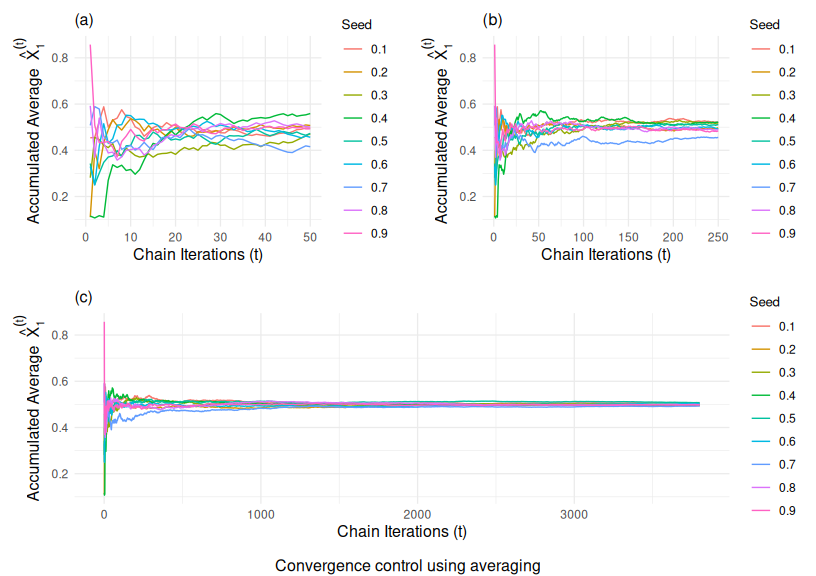
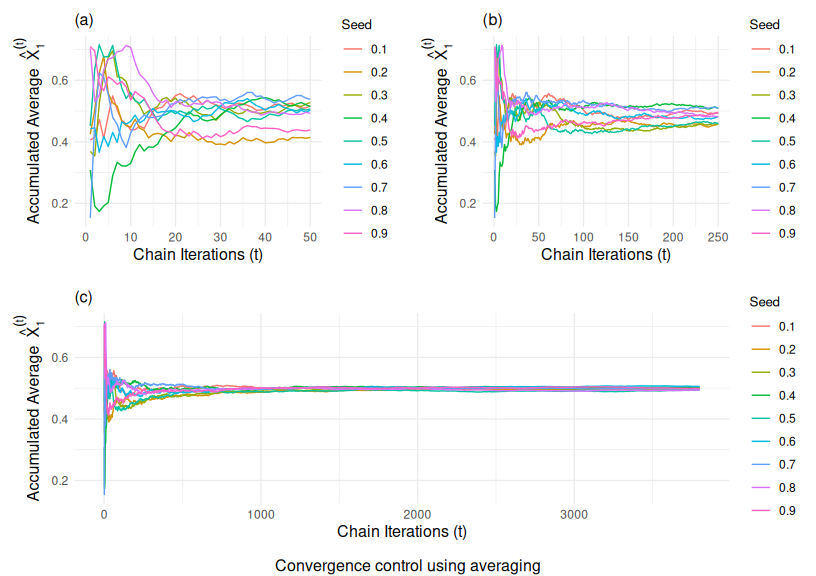
Update

diff --git a/randomsamples.md b/randomsamples.md
@@ -164,15 +164,15 @@ df <- data.frame(
   "ESS" = effectiveSize(ExampleFC_X1_X2$thinned_chain),
   "Length" = length(ExampleFC_X1_X2$thinned_chain),
   "Precision" = ExampleFC_X1_X2$precision,
-  row.names = "Chain Measurements"  # Cambia el nombre de la fila
+  row.names = "Chain Measurements"
 )
 df
 ```
 
-    ##                    Acceptance.Rate Acceptance.Rate.Post.Burn.in      ESS Length
-    ## Chain Measurements       0.5588156                     0.558048 3279.327   3800
+    ##                    Acceptance.Rate Acceptance.Rate.Post.Burn.in     ESS Length
+    ## Chain Measurements       0.5650557                    0.5643954 3433.86   3800
     ##                    Precision
-    ## Chain Measurements  2.992333
+    ## Chain Measurements  2.991663
 
 ## Convergence Monitoring with Fixed Seeds
 
@@ -228,7 +228,7 @@ round(apply(ExampleFC_X1_X2_seedgiven[1:3800,], 2, mean),3)
 ```
 
     ##   0.1   0.2   0.3   0.4   0.5   0.6   0.7   0.8   0.9 
-    ## 0.505 0.496 0.499 0.497 0.507 0.503 0.493 0.499 0.498
+    ## 0.497 0.497 0.501 0.503 0.494 0.506 0.497 0.494 0.500
 
 # Gibbs Sampling
 
@@ -353,39 +353,39 @@ numerical_df <- as.data.frame.matrix(t(results_measure_diag$Numerical))
 analytical_df <- as.data.frame.matrix(t(results_measure_diag$Analytical))
 differences_df <- as.data.frame.matrix(t(results_measure_diag$Differences)) 
 
-# Combinamos los tres data frames en uno solo
+# Combine the three data frames into one
 combined_df <- cbind(numerical_df, analytical_df[,1],differences_df[,1])
 names(combined_df)=c("Numerical Results", "Theoretical Results", "Differences")
 
-# Creamos la tabla con kable y le aplicamos estilo
+# The table is created with kable
 combined_df %>%
   kable(caption = "Summary Statistics for Different Measures", digits = 3)
 ```
 
 |                | Numerical Results | Theoretical Results | Differences |
 |:---------------|------------------:|--------------------:|------------:|
-| Mean_X1        |             0.893 |               0.917 |       0.024 |
-| Var_X1         |             2.479 |               7.851 |       5.372 |
-| ESS_X1         |          3800.000 |            3800.000 |       0.000 |
-| STDERR_Mean_X1 |             0.025 |                  NA |          NA |
-| STDERR_Var_X1  |             0.422 |                  NA |          NA |
-| CI_Mean1_Lower |             0.040 |                  NA |          NA |
-| CI_Mean1_Upper |             4.406 |                  NA |          NA |
-| CI_Var1_Lower  |             1.681 |                  NA |          NA |
-| CI_Var1_Upper  |             3.492 |                  NA |          NA |
-| Mean_X2        |             0.967 |               0.917 |      -0.050 |
-| Var_X2         |            13.128 |               7.851 |      -5.277 |
+| Mean_X1        |             0.928 |               0.917 |      -0.012 |
+| Var_X1         |             3.436 |               7.851 |       4.415 |
+| ESS_X1         |          4153.223 |            3800.000 |    -353.223 |
+| STDERR_Mean_X1 |             0.029 |                  NA |          NA |
+| STDERR_Var_X1  |             0.605 |                  NA |          NA |
+| CI_Mean1_Lower |             0.039 |                  NA |          NA |
+| CI_Mean1_Upper |             4.550 |                  NA |          NA |
+| CI_Var1_Lower  |             2.343 |                  NA |          NA |
+| CI_Var1_Upper  |             4.801 |                  NA |          NA |
+| Mean_X2        |             0.900 |               0.917 |       0.017 |
+| Var_X2         |             4.305 |               7.851 |       3.546 |
 | ESS_X2         |          3800.000 |            3800.000 |       0.000 |
-| STDERR_Mean_X2 |             0.059 |                  NA |          NA |
-| STDERR_Var_X2  |             9.642 |                  NA |          NA |
-| CI_Mean2_Lower |             0.036 |                  NA |          NA |
-| CI_Mean2_Upper |             4.424 |                  NA |          NA |
-| CI_Var2_Lower  |             2.378 |                  NA |          NA |
-| CI_Var2_Upper  |            33.436 |                  NA |          NA |
-| Cov            |             3.345 |               5.135 |       1.790 |
-| STDERR_Cov     |             1.730 |                  NA |          NA |
-| CI_Cov_Lower   |             1.224 |                  NA |          NA |
-| CI_Cov_Upper   |             7.189 |                  NA |          NA |
+| STDERR_Mean_X2 |             0.034 |                  NA |          NA |
+| STDERR_Var_X2  |             1.933 |                  NA |          NA |
+| CI_Mean2_Lower |             0.037 |                  NA |          NA |
+| CI_Mean2_Upper |             4.202 |                  NA |          NA |
+| CI_Var2_Lower  |             1.727 |                  NA |          NA |
+| CI_Var2_Upper  |             8.766 |                  NA |          NA |
+| Cov            |             2.079 |               5.135 |       3.056 |
+| STDERR_Cov     |             0.518 |                  NA |          NA |
+| CI_Cov_Lower   |             1.213 |                  NA |          NA |
+| CI_Cov_Upper   |             3.265 |                  NA |          NA |
 | Length         |          3800.000 |            3800.000 |       0.000 |
 
 Summary Statistics for Different Measures
@@ -412,7 +412,7 @@ Gelm_Rud_X2 = gelman.diag(list(mcmc(sample1$X2[seq((burnin+1), N, by=thin)]), mc
 print(c(Gelm_Rud_X1,Gelm_Rud_X2))
 ```
 
-    ## [1] 0.9998731 1.0005821
+    ## [1] 1.000875 1.000143
 
 # Comparison Using an Alternative Parameter Configuration
 
@@ -439,39 +439,39 @@ numerical_df <- as.data.frame.matrix(t(results_measure_diag1$Numerical))
 analytical_df <- as.data.frame.matrix(t(results_measure_diag1$Analytical))
 differences_df <- as.data.frame.matrix(t(results_measure_diag1$Differences)) 
 
-# Combinamos los tres data frames en uno solo
+# Combine the three data frames into one
 combined_df <- cbind(numerical_df, analytical_df[,1],differences_df[,1])
 names(combined_df)=c("Numerical Results", "Theoretical Results", "Differences")
 
-# Creamos la tabla con kable y le aplicamos estilo
+# The table is created with kable
 combined_df %>%
   kable(caption = "Summary Statistics for Different Measures", digits = 3) 
 ```
 
 |                | Numerical Results | Theoretical Results | Differences |
 |:---------------|------------------:|--------------------:|------------:|
-| Mean_X1        |             1.083 |                 1.0 |      -0.083 |
-| Var_X1         |             1.690 |                 1.8 |       0.110 |
-| ESS_X1         |         19609.108 |             19000.0 |    -609.108 |
-| STDERR_Mean_X1 |             0.009 |                  NA |          NA |
-| STDERR_Var_X1  |             0.150 |                  NA |          NA |
-| CI_Mean1_Lower |             0.145 |                  NA |          NA |
-| CI_Mean1_Upper |             4.089 |                  NA |          NA |
-| CI_Var1_Lower  |             1.429 |                  NA |          NA |
-| CI_Var1_Upper  |             2.022 |                  NA |          NA |
-| Mean_X2        |             1.932 |                 2.0 |       0.068 |
-| Var_X2         |             5.171 |                 5.8 |       0.629 |
-| ESS_X2         |         19000.000 |             19000.0 |       0.000 |
+| Mean_X1        |             1.069 |                 1.0 |      -0.069 |
+| Var_X1         |             1.909 |                 1.8 |      -0.109 |
+| ESS_X1         |         19000.000 |             19000.0 |       0.000 |
+| STDERR_Mean_X1 |             0.010 |                  NA |          NA |
+| STDERR_Var_X1  |             0.268 |                  NA |          NA |
+| CI_Mean1_Lower |             0.144 |                  NA |          NA |
+| CI_Mean1_Upper |             4.137 |                  NA |          NA |
+| CI_Var1_Lower  |             1.494 |                  NA |          NA |
+| CI_Var1_Upper  |             2.515 |                  NA |          NA |
+| Mean_X2        |             1.902 |                 2.0 |       0.098 |
+| Var_X2         |             4.532 |                 5.8 |       1.268 |
+| ESS_X2         |         18018.001 |             19000.0 |     981.999 |
 | STDERR_Mean_X2 |             0.016 |                  NA |          NA |
-| STDERR_Var_X2  |             0.690 |                  NA |          NA |
-| CI_Mean2_Lower |             0.311 |                  NA |          NA |
-| CI_Mean2_Upper |             6.895 |                  NA |          NA |
-| CI_Var2_Lower  |             4.002 |                  NA |          NA |
-| CI_Var2_Upper  |             6.742 |                  NA |          NA |
-| Cov            |             2.224 |                 2.2 |      -0.024 |
-| STDERR_Cov     |             0.211 |                  NA |          NA |
-| CI_Cov_Lower   |             1.845 |                  NA |          NA |
-| CI_Cov_Upper   |             2.688 |                  NA |          NA |
+| STDERR_Var_X2  |             0.271 |                  NA |          NA |
+| CI_Mean2_Lower |             0.315 |                  NA |          NA |
+| CI_Mean2_Upper |             6.965 |                  NA |          NA |
+| CI_Var2_Lower  |             4.035 |                  NA |          NA |
+| CI_Var2_Upper  |             5.093 |                  NA |          NA |
+| Cov            |             2.166 |                 2.2 |       0.034 |
+| STDERR_Cov     |             0.189 |                  NA |          NA |
+| CI_Cov_Lower   |             1.848 |                  NA |          NA |
+| CI_Cov_Upper   |             2.590 |                  NA |          NA |
 | Length         |         19000.000 |             19000.0 |       0.000 |
 
 Summary Statistics for Different Measures
@@ -496,4 +496,76 @@ Gelm_Rud_X2 = gelman.diag(list(mcmc(sample1$X2[seq((burnin+1), N, by=thin)]), mc
 print(c(Gelm_Rud_X1,Gelm_Rud_X2))
 ```
 
-    ## [1] 0.9999085 1.0001929
+    ## [1] 1.0000538 0.9999126
+
+# Application
+
+``` r
+a3=141.6457; b3=2263.205; c3=39.48316; d3=3092.636
+Example_Joint_Dist3=Gen_Joint_Dist(N1 = 10^5,N2 = 2,prop_prec=3,a = a3,b = b3,c = c3,d = d3,thin = 2, X10_given = "random",target_acceptance = 0.4)
+
+results_measure_diag3=Measure_Diagnostic(data1 = Example_Joint_Dist3$X1,data2 = Example_Joint_Dist3$X2, var ="transform", digits = 3, a = a3, b = b3, c = c3, d = d3, burnin = 5000, thin = 5)
+```
+
+``` r
+library(knitr)
+library(kableExtra)
+
+numerical_df <- as.data.frame.matrix(t(results_measure_diag3$Numerical))
+analytical_df <- as.data.frame.matrix(t(results_measure_diag3$Analytical))
+differences_df <- as.data.frame.matrix(t(results_measure_diag3$Differences)) 
+
+# Combine the three data frames into one
+combined_df <- cbind(numerical_df, analytical_df[,1],differences_df[,1])
+names(combined_df)=c("Numerical Results", "Theoretical Results", "Differences")
+
+# The table is created with kable
+combined_df %>%
+  kable(caption = "Summary Statistics for Different Measures", digits = 3) 
+```
+
+|                | Numerical Results | Theoretical Results | Differences |
+|:---------------|------------------:|--------------------:|------------:|
+| Mean_X1        |             4.783 |               4.733 |      -0.050 |
+| Var_X1         |             0.773 |               0.758 |      -0.015 |
+| ESS_X1         |         19000.000 |           19000.000 |       0.000 |
+| STDERR_Mean_X1 |             0.006 |                  NA |          NA |
+| STDERR_Var_X1  |             0.009 |                  NA |          NA |
+| CI_Mean1_Lower |             3.335 |                  NA |          NA |
+| CI_Mean1_Upper |             6.753 |                  NA |          NA |
+| CI_Var1_Lower  |             0.754 |                  NA |          NA |
+| CI_Var1_Upper  |             0.791 |                  NA |          NA |
+| Mean_X2        |            75.629 |              75.630 |       0.001 |
+| Var_X2         |           154.110 |             154.651 |       0.541 |
+| ESS_X2         |         19000.000 |           19000.000 |       0.000 |
+| STDERR_Mean_X2 |             0.090 |                  NA |          NA |
+| STDERR_Var_X2  |             1.810 |                  NA |          NA |
+| CI_Mean2_Lower |            55.103 |                  NA |          NA |
+| CI_Mean2_Upper |           103.392 |                  NA |          NA |
+| CI_Var2_Lower  |           150.439 |                  NA |          NA |
+| CI_Var2_Upper  |           157.875 |                  NA |          NA |
+| Cov            |             9.587 |               9.517 |      -0.070 |
+| STDERR_Cov     |             0.122 |                  NA |          NA |
+| CI_Cov_Lower   |             9.345 |                  NA |          NA |
+| CI_Cov_Upper   |             9.831 |                  NA |          NA |
+| Length         |         19000.000 |           19000.000 |       0.000 |
+
+Summary Statistics for Different Measures
+
+``` r
+sample1 = Gen_Joint_Dist(N1 = 10^5,N2 = 2,prop_prec = 3,a3,b3,c3,d3,thin = 2,X10_given ="random",target_acceptance = 0.4)
+
+sample2 = Gen_Joint_Dist(N1 = 10^5,N2 = 2,prop_prec = 3,a3,b3,c3,d3,thin = 2,X10_given ="random",target_acceptance = 0.4)
+
+sample3 = Gen_Joint_Dist(N1 = 10^5,N2 = 2,prop_prec = 3,a3,b3,c3,d3,thin = 2,X10_given ="random",target_acceptance = 0.4)
+
+burnin=5000;thin=25
+
+Gelm_Rud_X1 = gelman.diag(list(mcmc(sample1$X1[seq((burnin+1), N, by=thin)]), mcmc(sample2$X1[seq((burnin+1), N, by=thin)]),mcmc(sample3$X1[seq((burnin+1), N, by=thin)])))$psrf[1]
+
+Gelm_Rud_X2 = gelman.diag(list(mcmc(sample1$X2[seq((burnin+1), N, by=thin)]), mcmc(sample2$X2[seq((burnin+1), N, by=thin)]),mcmc(sample3$X2[seq((burnin+1), N, by=thin)])))$psrf[1]
+
+print(c(Gelm_Rud_X1,Gelm_Rud_X2))
+```
+
+    ## [1] 1.001263 1.000680
